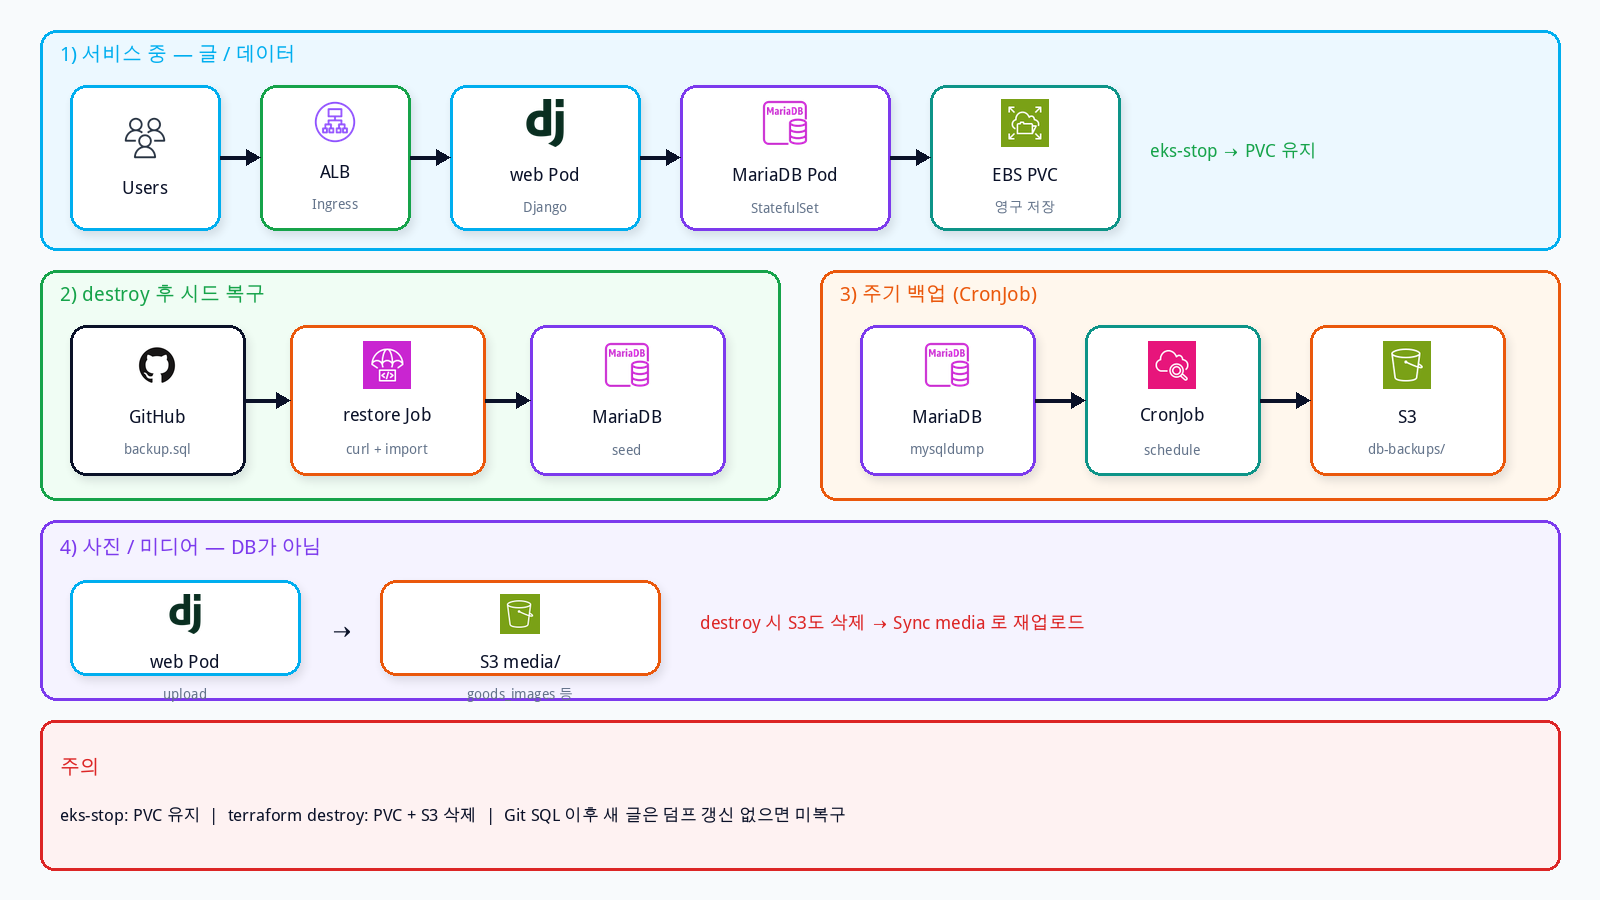
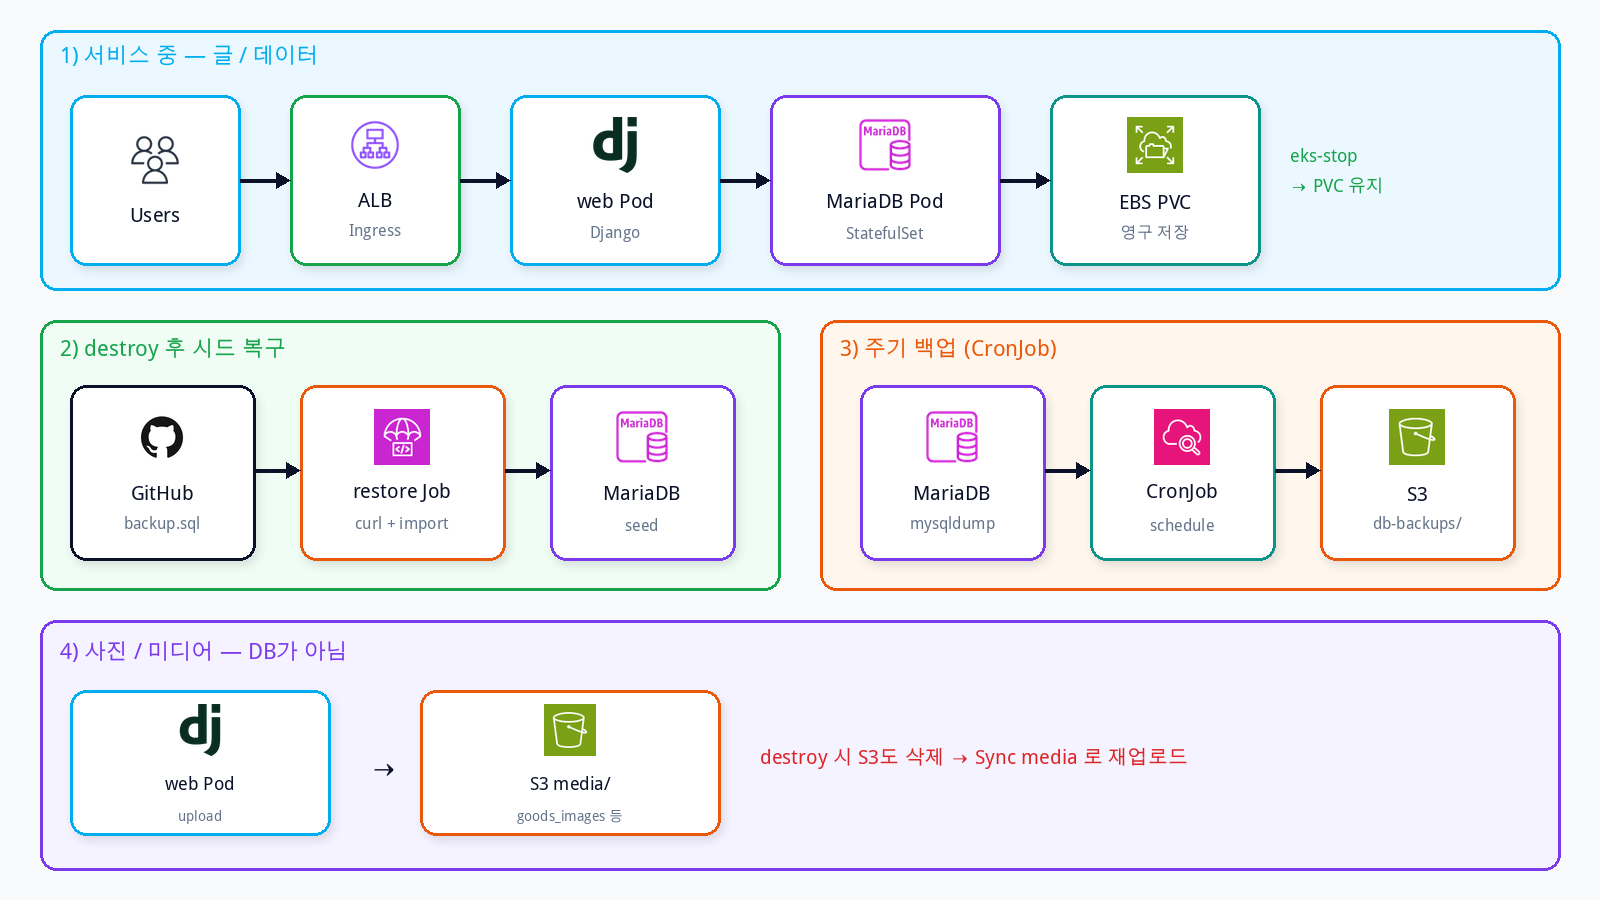
docs(presentation): drop data-flow caution bar and enlarge sections
Remove the bottom 주의 strip from hybrid_10_data_flow and rebalance
the four flow panels to fill the slide.

diff --git a/docs/presentation/make_hybrid_diagrams.py b/docs/presentation/make_hybrid_diagrams.py
@@ -510,73 +510,61 @@ def make_tech_stack_v2():
 
 
 def make_data_flow_v2():
-    """데이터 흐름 전용 장 — 서비스/시드/백업/미디어를 크게."""
+    """데이터 흐름 전용 장 — 서비스/시드/백업/미디어 (주의 칸 없음)."""
     img = Image.new("RGBA", (W, H), BG + (255,))
 
-    # 1) service path
-    soft_card(img, (40, 30, 1560, 250), r=16, fill=SOFT_BLUE, shadow=False)
+    # 1) service path — full width top
+    soft_card(img, (40, 30, 1560, 290), r=16, fill=SOFT_BLUE, shadow=False)
     d = ImageDraw.Draw(img)
-    d.rounded_rectangle((40, 30, 1560, 250), radius=16, outline=CYAN, width=3)
-    d.text((60, 42), "1) 서비스 중 — 글 / 데이터", font=fnt(20, True), fill=CYAN)
-    tile(img, 70, 85, 150, 145, "users", "Users", "", CYAN, WHITE, 44)
-    tile(img, 260, 85, 150, 145, "alb", "ALB", "Ingress", GREEN, WHITE, 44)
-    tile(img, 450, 85, 190, 145, "django", "web Pod", "Django", CYAN, WHITE, 48)
-    tile(img, 680, 85, 210, 145, "rds_maria", "MariaDB Pod", "StatefulSet", PURPLE, WHITE, 48)
-    tile(img, 930, 85, 190, 145, "efs", "EBS PVC", "영구 저장", TEAL, WHITE, 48)
+    d.rounded_rectangle((40, 30, 1560, 290), radius=16, outline=CYAN, width=3)
+    d.text((60, 42), "1) 서비스 중 — 글 / 데이터", font=fnt(22, True), fill=CYAN)
+    tile(img, 70, 95, 170, 170, "users", "Users", "", CYAN, WHITE, 52)
+    tile(img, 290, 95, 170, 170, "alb", "ALB", "Ingress", GREEN, WHITE, 52)
+    tile(img, 510, 95, 210, 170, "django", "web Pod", "Django", CYAN, WHITE, 56)
+    tile(img, 770, 95, 230, 170, "rds_maria", "MariaDB Pod", "StatefulSet", PURPLE, WHITE, 56)
+    tile(img, 1050, 95, 210, 170, "efs", "EBS PVC", "영구 저장", TEAL, WHITE, 56)
     d = ImageDraw.Draw(img)
-    for x0, x1 in [(220, 260), (410, 450), (640, 680), (890, 930)]:
-        arrow_h(d, x0, 157, x1, NAVY)
-    d.text((1150, 140), "eks-stop → PVC 유지", font=fnt(18, True), fill=GREEN)
+    for x0, x1 in [(240, 290), (460, 510), (720, 770), (1000, 1050)]:
+        arrow_h(d, x0, 180, x1, NAVY)
+    d.text((1290, 145), "eks-stop", font=fnt(18, True), fill=GREEN)
+    d.text((1290, 175), "→ PVC 유지", font=fnt(18, True), fill=GREEN)
 
-    # 2) seed
-    soft_card(img, (40, 270, 780, 500), r=16, fill=SOFT_GREEN, shadow=False)
+    # 2) seed  ·  3) backup — mid row
+    soft_card(img, (40, 320, 780, 590), r=16, fill=SOFT_GREEN, shadow=False)
     d = ImageDraw.Draw(img)
-    d.rounded_rectangle((40, 270, 780, 500), radius=16, outline=GREEN, width=3)
-    d.text((60, 282), "2) destroy 후 시드 복구", font=fnt(20, True), fill=GREEN)
-    tile(img, 70, 325, 175, 150, "github", "GitHub", "backup.sql", NAVY, WHITE, 48)
-    tile(img, 290, 325, 195, 150, "codedeploy", "restore Job", "curl + import", ORANGE, WHITE, 48)
-    tile(img, 530, 325, 195, 150, "rds_maria", "MariaDB", "seed", PURPLE, WHITE, 48)
+    d.rounded_rectangle((40, 320, 780, 590), radius=16, outline=GREEN, width=3)
+    d.text((60, 335), "2) destroy 후 시드 복구", font=fnt(22, True), fill=GREEN)
+    tile(img, 70, 385, 185, 175, "github", "GitHub", "backup.sql", NAVY, WHITE, 56)
+    tile(img, 300, 385, 205, 175, "codedeploy", "restore Job", "curl + import", ORANGE, WHITE, 56)
+    tile(img, 550, 385, 185, 175, "rds_maria", "MariaDB", "seed", PURPLE, WHITE, 56)
     d = ImageDraw.Draw(img)
-    arrow_h(d, 245, 400, 290, NAVY)
-    arrow_h(d, 485, 400, 530, NAVY)
+    arrow_h(d, 255, 470, 300, NAVY)
+    arrow_h(d, 505, 470, 550, NAVY)
 
-    # 3) backup
-    soft_card(img, (820, 270, 1560, 500), r=16, fill=SOFT_ORANGE, shadow=False)
+    soft_card(img, (820, 320, 1560, 590), r=16, fill=SOFT_ORANGE, shadow=False)
     d = ImageDraw.Draw(img)
-    d.rounded_rectangle((820, 270, 1560, 500), radius=16, outline=ORANGE, width=3)
-    d.text((840, 282), "3) 주기 백업 (CronJob)", font=fnt(20, True), fill=ORANGE)
-    tile(img, 860, 325, 175, 150, "rds_maria", "MariaDB", "mysqldump", PURPLE, WHITE, 48)
-    tile(img, 1085, 325, 175, 150, "cloudwatch", "CronJob", "schedule", TEAL, WHITE, 48)
-    tile(img, 1310, 325, 195, 150, "s3", "S3", "db-backups/", ORANGE, WHITE, 48)
+    d.rounded_rectangle((820, 320, 1560, 590), radius=16, outline=ORANGE, width=3)
+    d.text((840, 335), "3) 주기 백업 (CronJob)", font=fnt(22, True), fill=ORANGE)
+    tile(img, 860, 385, 185, 175, "rds_maria", "MariaDB", "mysqldump", PURPLE, WHITE, 56)
+    tile(img, 1090, 385, 185, 175, "cloudwatch", "CronJob", "schedule", TEAL, WHITE, 56)
+    tile(img, 1320, 385, 195, 175, "s3", "S3", "db-backups/", ORANGE, WHITE, 56)
     d = ImageDraw.Draw(img)
-    arrow_h(d, 1035, 400, 1085, NAVY)
-    arrow_h(d, 1260, 400, 1310, NAVY)
+    arrow_h(d, 1045, 470, 1090, NAVY)
+    arrow_h(d, 1275, 470, 1320, NAVY)
 
-    # 4) media
-    soft_card(img, (40, 520, 1560, 700), r=16, fill=SOFT_PURPLE, shadow=False)
+    # 4) media — bottom full width
+    soft_card(img, (40, 620, 1560, 870), r=16, fill=SOFT_PURPLE, shadow=False)
     d = ImageDraw.Draw(img)
-    d.rounded_rectangle((40, 520, 1560, 700), radius=16, outline=PURPLE, width=3)
-    d.text((60, 535), "4) 사진 / 미디어 — DB가 아님", font=fnt(20, True), fill=PURPLE)
-    tile(img, 70, 580, 230, 95, "django", "web Pod", "upload", CYAN, WHITE, 40)
-    d.text((330, 615), "→", font=fnt(24, True), fill=NAVY)
-    tile(img, 380, 580, 280, 95, "s3", "S3 media/", "goods_images 등", ORANGE, WHITE, 40)
+    d.rounded_rectangle((40, 620, 1560, 870), radius=16, outline=PURPLE, width=3)
+    d.text((60, 638), "4) 사진 / 미디어 — DB가 아님", font=fnt(22, True), fill=PURPLE)
+    tile(img, 70, 690, 260, 145, "django", "web Pod", "upload", CYAN, WHITE, 52)
+    d.text((370, 750), "→", font=fnt(28, True), fill=NAVY)
+    tile(img, 420, 690, 300, 145, "s3", "S3 media/", "goods_images 등", ORANGE, WHITE, 52)
     d.text(
-        (700, 612),
+        (760, 745),
         "destroy 시 S3도 삭제 → Sync media 로 재업로드",
-        font=fnt(18),
+        font=fnt(20),
         fill=RED,
-    )
-
-    # note
-    soft_card(img, (40, 720, 1560, 870), r=14, fill=SOFT_RED, shadow=False)
-    d = ImageDraw.Draw(img)
-    d.rounded_rectangle((40, 720, 1560, 870), radius=14, outline=RED, width=3)
-    d.text((60, 755), "주의", font=fnt(20, True), fill=RED)
-    d.text(
-        (60, 805),
-        "eks-stop: PVC 유지  |  terraform destroy: PVC + S3 삭제  |  Git SQL 이후 새 글은 덤프 갱신 없으면 미복구",
-        font=fnt(17),
-        fill=NAVY,
     )
     save(img, "hybrid_10_data_flow.png")
 

diff --git a/docs/presentation/CONTENT_V1V2_working.md b/docs/presentation/CONTENT_V1V2_working.md
@@ -102,7 +102,6 @@
 2. destroy 후 시드: GitHub SQL → restore Job → MariaDB
 3. 주기 백업: MariaDB → CronJob → S3 db-backups/
 4. 미디어: web Pod → S3 media/ (DB 아님 · destroy 시 Sync media)
-주의: terraform destroy = PVC+S3 삭제
 
 ### 11. 향후 3UP
 - **Unique Up:** 관측 고도화 · OIDC 축소 · 백업 드릴 · **AIOps(self-healing)**
